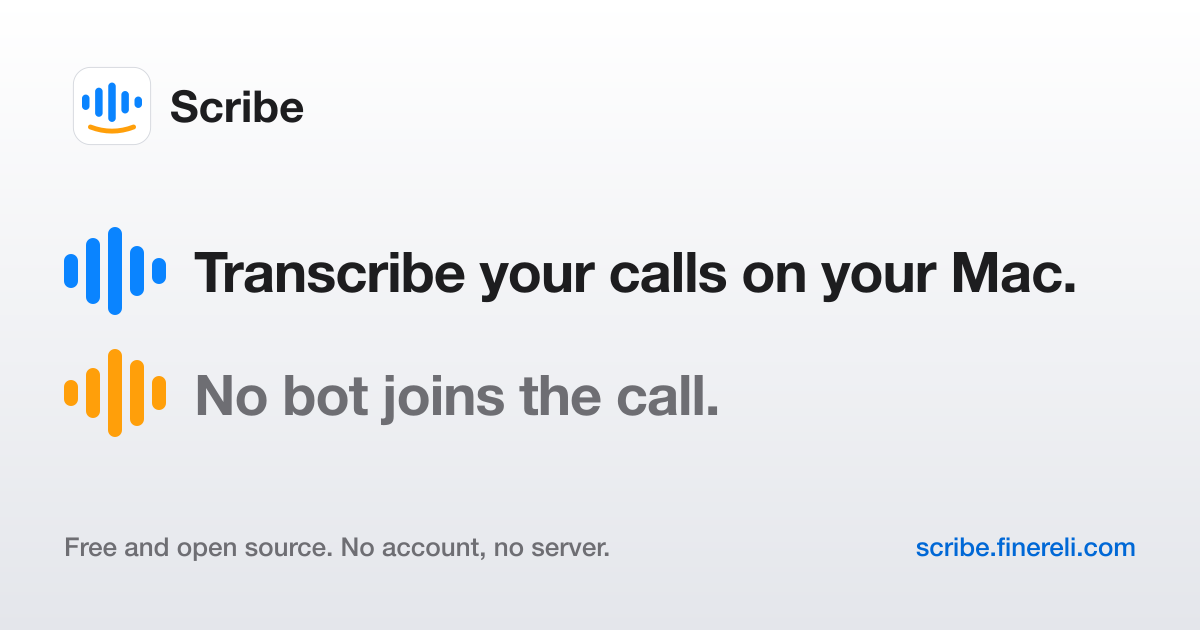
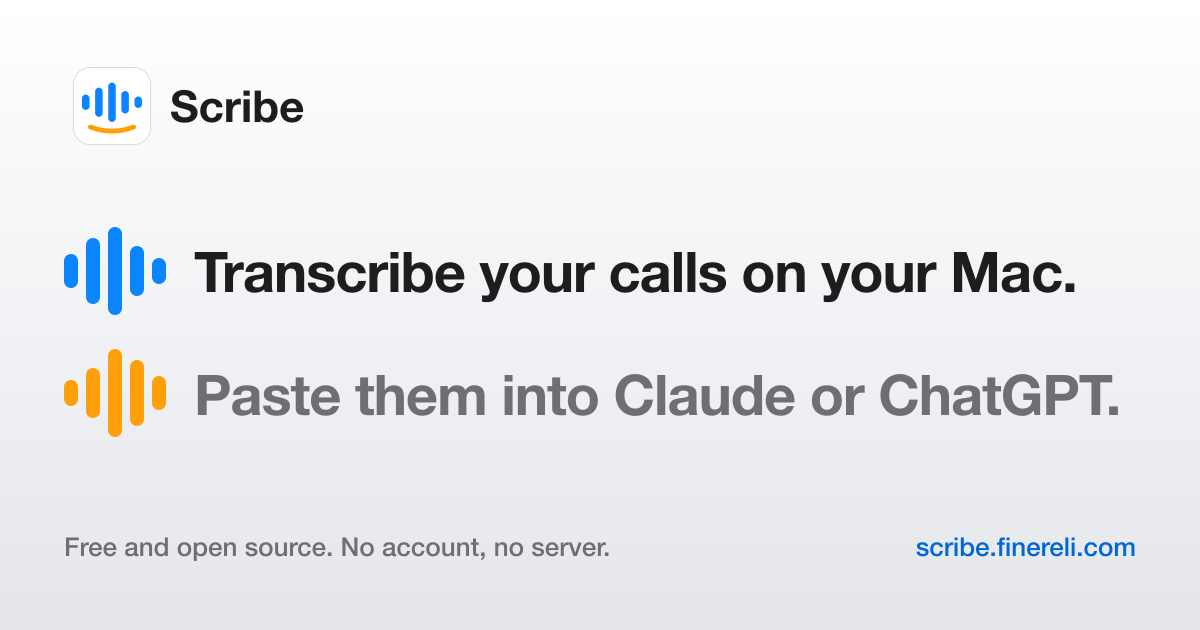
README and site: a tiny tool that hands your calls to Claude or ChatGPT
Lead with tiny and your AI, add the backup-for-important-calls benefit
and Teams' bot blocking, reframe the comparison as 'next to what you
already use', and show the send buttons in the animated mock.

Claude-Session: https://claude.ai/code/session_01HrUMyb8V6yPdeePndFHaDK

Changed region(s): [[0.1542, 0.573, 0.9558, 0.6937]]

diff --git a/site/public/index.html b/site/public/index.html
@@ -3,8 +3,8 @@
 <head>
 <meta charset="utf-8">
 <meta name="viewport" content="width=device-width, initial-scale=1">
-<title>Scribe - a free call transcriber for the Mac</title>
-<meta name="description" content="Scribe transcribes your Zoom, Google Meet, WhatsApp and FaceTime calls on your Mac, without a bot joining the call. Free and open source. No account, no server.">
+<title>Scribe - a tiny Mac tool to transcribe your calls for Claude or ChatGPT</title>
+<meta name="description" content="A tiny, free Mac app that transcribes your Zoom, Meet and WhatsApp calls and hands them to Claude or ChatGPT. No bot joins the call. 2 MB, no account, open source.">
 <link rel="canonical" href="https://scribe.finereli.com/">
 <meta name="color-scheme" content="light dark">
 <meta name="theme-color" content="#F2F3F5" media="(prefers-color-scheme: light)">
@@ -17,17 +17,17 @@
 <meta property="og:type" content="website">
 <meta property="og:site_name" content="Scribe">
 <meta property="og:url" content="https://scribe.finereli.com/">
-<meta property="og:title" content="Scribe - transcribe your calls on your Mac">
-<meta property="og:description" content="A free call transcriber for the Mac. Works with Zoom, Google Meet, WhatsApp, FaceTime, or anything else that talks through your speakers, and no bot joins the call.">
+<meta property="og:title" content="Scribe - a tiny Mac tool to transcribe your calls for Claude or ChatGPT">
+<meta property="og:description" content="Transcribe your Zoom, Meet and WhatsApp calls on your Mac and paste them into Claude or ChatGPT. No bot joins the call. Free, 2 MB, open source.">
 <meta property="og:image" content="https://scribe.finereli.com/og.png">
 <meta property="og:image:width" content="1200">
 <meta property="og:image:height" content="630">
-<meta property="og:image:alt" content="Scribe: transcribe your calls on your Mac. No bot joins the call.">
+<meta property="og:image:alt" content="Scribe: transcribe your calls on your Mac. Paste them into Claude or ChatGPT.">
 <meta name="twitter:card" content="summary_large_image">
-<meta name="twitter:title" content="Scribe - transcribe your calls on your Mac">
-<meta name="twitter:description" content="A free call transcriber for the Mac. Works with Zoom, Google Meet, WhatsApp, FaceTime, or anything else that talks through your speakers, and no bot joins the call.">
+<meta name="twitter:title" content="Scribe - a tiny Mac tool to transcribe your calls for Claude or ChatGPT">
+<meta name="twitter:description" content="Transcribe your Zoom, Meet and WhatsApp calls on your Mac and paste them into Claude or ChatGPT. No bot joins the call. Free, 2 MB, open source.">
 <meta name="twitter:image" content="https://scribe.finereli.com/og.png">
-<meta name="twitter:image:alt" content="Scribe: transcribe your calls on your Mac. No bot joins the call.">
+<meta name="twitter:image:alt" content="Scribe: transcribe your calls on your Mac. Paste them into Claude or ChatGPT.">
 
 <link rel="stylesheet" href="/styles.css">
 </head>
@@ -52,9 +52,9 @@
   <div>
     <h1 class="headline">
       <span class="voice me"><span class="bars" aria-hidden="true"><i></i><i></i><i></i><i></i><i></i></span><span class="said">Transcribe your calls on your Mac.</span></span>
-      <span class="voice them"><span class="bars" aria-hidden="true"><i></i><i></i><i></i><i></i><i></i></span><span class="said">No bot joins the call.</span></span>
+      <span class="voice them"><span class="bars" aria-hidden="true"><i></i><i></i><i></i><i></i><i></i></span><span class="said">Paste them into Claude or ChatGPT.</span></span>
     </h1>
-    <p class="lede">Scribe is a free call transcriber for the Mac. It works with Zoom, Google Meet, WhatsApp, FaceTime, or anything else that talks through your speakers, and it doesn't need a bot to join the call.</p>
+    <p class="lede">Scribe is a tiny Mac tool. It listens to your Zoom, Meet or WhatsApp call from your side, so no bot joins, writes down who said what, and hands the transcript to your AI with one click. 2 MB, no dependencies, no account.</p>
     <div class="get">
       <a class="download" href="https://github.com/finereli/scribe/releases/latest/download/Scribe.dmg">
         <svg viewBox="0 0 20 20" aria-hidden="true"><path d="M10 2.5v10m0 0-4-4m4 4 4-4M3.5 13.5v1.5a2 2 0 0 0 2 2h9a2 2 0 0 0 2-2v-1.5" fill="none" stroke="currentColor" stroke-width="1.8" stroke-linecap="round" stroke-linejoin="round"/></svg>
@@ -65,7 +65,7 @@
   </div>
 
   <figure class="window" aria-label="An example of a call being transcribed in Scribe">
-    <div class="titlebar" aria-hidden="true"><span></span><span></span><span></span></div>
+    <div class="titlebar" aria-hidden="true"><span></span><span></span><span></span><span class="send"><span class="ai" title="Copy the transcript and open Claude"><svg viewBox="0 0 100 100" aria-hidden="true"><path fill="#D97757" d="m19.6 66.5 19.7-11 .3-1-.3-.5h-1l-3.3-.2-11.2-.3L14 53l-9.5-.5-2.4-.5L0 49l.2-1.5 2-1.3 2.9.2 6.3.5 9.5.6 6.9.4L38 49.1h1.6l.2-.7-.5-.4-.4-.4L29 41l-10.6-7-5.6-4.1-3-2-1.5-2-.6-4.2 2.7-3 3.7.3.9.2 3.7 2.9 8 6.1L37 36l1.5 1.2.6-.4.1-.3-.7-1.1L33 25l-6-10.4-2.7-4.3-.7-2.6c-.3-1-.4-2-.4-3l3-4.2L28 0l4.2.6L33.8 2l2.6 6 4.1 9.3L47 29.9l2 3.8 1 3.4.3 1h.7v-.5l.5-7.2 1-8.7 1-11.2.3-3.2 1.6-3.8 3-2L61 2.6l2 2.9-.3 1.8-1.1 7.7L59 27.1l-1.5 8.2h.9l1-1.1 4.1-5.4 6.9-8.6 3-3.5L77 13l2.3-1.8h4.3l3.1 4.7-1.4 4.9-4.4 5.6-3.7 4.7-5.3 7.1-3.2 5.7.3.4h.7l12-2.6 6.4-1.1 7.6-1.3 3.5 1.6.4 1.6-1.4 3.4-8.2 2-9.6 2-14.3 3.3-.2.1.2.3 6.4.6 2.8.2h6.8l12.6 1 3.3 2 1.9 2.7-.3 2-5.1 2.6-6.8-1.6-16-3.8-5.4-1.3h-.8v.4l4.6 4.5 8.3 7.5L89 80.1l.5 2.4-1.3 2-1.4-.2-9.2-7-3.6-3-8-6.8h-.5v.7l1.8 2.7 9.8 14.7.5 4.5-.7 1.4-2.6 1-2.7-.6-5.8-8-6-9-4.7-8.2-.5.4-2.9 30.2-1.3 1.5-3 1.2-2.5-2-1.4-3 1.4-6.2 1.6-8 1.3-6.4 1.2-7.9.7-2.6v-.2H49L43 72l-9 12.3-7.2 7.6-1.7.7-3-1.5.3-2.8L24 86l10-12.8 6-7.9 4-4.6-.1-.5h-.3L17.2 77.4l-4.7.6-2-2 .2-3 1-1 8-5.5Z"/></svg><svg class="arr" viewBox="0 0 10 10" aria-hidden="true"><path d="M3 7 7 3M3.6 3H7v3.4" fill="none" stroke="currentColor" stroke-width="1.4" stroke-linecap="round" stroke-linejoin="round"/></svg></span><span class="ai" title="Copy the transcript and open ChatGPT"><svg viewBox="0 0 320 320" aria-hidden="true"><path fill="currentColor" d="m297.06 130.97c7.26-21.79 4.76-45.66-6.85-65.48-17.46-30.4-52.56-46.04-86.84-38.68-15.25-17.18-37.16-26.95-60.13-26.81-35.04-.08-66.13 22.48-76.91 55.82-22.51 4.61-41.94 18.7-53.31 38.67-17.59 30.32-13.58 68.54 9.92 94.54-7.26 21.79-4.76 45.66 6.85 65.48 17.46 30.4 52.56 46.04 86.84 38.68 15.24 17.18 37.16 26.95 60.13 26.8 35.06.09 66.16-22.49 76.94-55.86 22.51-4.61 41.94-18.7 53.31-38.67 17.57-30.32 13.55-68.51-9.94-94.51zm-120.28 168.11c-14.03.02-27.62-4.89-38.39-13.88.49-.26 1.34-.73 1.89-1.07l63.72-36.8c3.26-1.85 5.26-5.32 5.24-9.07v-89.83l26.93 15.55c.29.14.48.42.52.74v74.39c-.04 33.08-26.83 59.9-59.91 59.97zm-128.84-55.03c-7.03-12.14-9.56-26.37-7.15-40.18.47.28 1.3.79 1.89 1.13l63.72 36.8c3.23 1.89 7.23 1.89 10.47 0l77.79-44.92v31.1c.02.32-.13.63-.38.83l-64.41 37.19c-28.69 16.52-65.33 6.7-81.92-21.95zm-16.77-139.09c7-12.16 18.05-21.46 31.21-26.29 0 .55-.03 1.52-.03 2.2v73.61c-.02 3.74 1.98 7.21 5.23 9.06l77.79 44.91-26.93 15.55c-.27.18-.61.21-.91.08l-64.42-37.22c-28.63-16.58-38.45-53.21-21.95-81.89zm221.26 51.49-77.79-44.92 26.93-15.54c.27-.18.61-.21.91-.08l64.42 37.19c28.68 16.57 38.51 53.26 21.94 81.94-7.01 12.14-18.05 21.44-31.2 26.28v-75.81c.03-3.74-1.96-7.2-5.2-9.06zm26.8-40.34c-.47-.29-1.3-.79-1.89-1.13l-63.72-36.8c-3.23-1.89-7.23-1.89-10.47 0l-77.79 44.92v-31.1c-.02-.32.13-.63.38-.83l64.41-37.16c28.69-16.55 65.37-6.7 81.91 22 6.99 12.12 9.52 26.31 7.15 40.1zm-168.51 55.43-26.94-15.55c-.29-.14-.48-.42-.52-.74v-74.39c.02-33.12 26.89-59.96 60.01-59.94 14.01 0 27.57 4.92 38.34 13.88-.49.26-1.33.73-1.89 1.07l-63.72 36.8c-3.26 1.85-5.26 5.31-5.24 9.06l-.04 89.79zm14.63-31.54 34.65-20.01 34.65 20v40.01l-34.65 20-34.65-20z"/></svg><svg class="arr" viewBox="0 0 10 10" aria-hidden="true"><path d="M3 7 7 3M3.6 3H7v3.4" fill="none" stroke="currentColor" stroke-width="1.4" stroke-linecap="round" stroke-linejoin="round"/></svg></span></span></div>
     <div class="callhead">
       <div>
         <strong>Call with Dana</strong>
@@ -121,25 +121,33 @@
     <h2 id="different">What's different</h2>
     <dl class="points">
       <div class="point">
+        <dt>It's tiny.</dt>
+        <dd>Scribe isn't another place your meetings live. There's no account, no workspace and no AI of its own to learn. It's a 2 MB app with no dependencies that uses the speech recognizer already built into macOS, so there's no model to download. It runs on Apple Silicon and Intel Macs alike. Pick it up when a call starts, put it down when it ends.</dd>
+      </div>
+      <div class="point">
+        <dt>Your AI does the thinking.</dt>
+        <dd>Click the Claude or ChatGPT button and the transcript is copied with a line of context and the app opens. Paste, then ask what you actually want to know, in your own words. No fighting someone else's idea of a summary.</dd>
+      </div>
+      <div class="point">
+        <dt>A backup for the calls that matter.</dt>
+        <dd>Keep using Fathom or Granola if you like them. Scribe sits next to them for the calls where the bot is stuck in the waiting room, the meeting is on someone else's account, or the call is too important to trust to one tool.</dd>
+      </div>
+      <div class="point">
         <dt>There's no bot.</dt>
-        <dd>Nobody gets a "Scribe Notetaker wants to join" message. It doesn't matter whose meeting it is or which app it's in. Scribe listens on your Mac, the same way you do.</dd>
+        <dd>Nobody gets a "Notetaker wants to join" message. It doesn't matter whose meeting it is or which app it's in. Scribe listens on your Mac, the same way you do.</dd>
       </div>
       <div class="point">
         <dt>Your audio stays on your Mac.</dt>
-        <dd>The recording and the transcript are files on your disk. There's no account and no server.
+        <dd>Both sides are saved as audio files on your disk, next to the transcript. There's no account and no server.
           <small>One caveat: English is transcribed entirely on your Mac. For other languages, macOS sends the audio to Apple's speech service, the same one dictation uses.</small></dd>
-      </div>
-      <div class="point">
-        <dt>It's light.</dt>
-        <dd>Scribe uses the speech recognizer that's already in macOS rather than shipping its own model. The app is about 2 MB, and an hour of call is about 30 MB of audio. It runs on Apple Silicon and Intel Macs alike.</dd>
       </div>
       <div class="point">
         <dt>It knows who said what.</dt>
         <dd>Your microphone is <span class="chip me">Me</span> and whatever comes out of your Mac is <span class="chip them">Them</span>. For the usual one-on-one call, that's all the speaker detection you need, and it doesn't have to guess.</dd>
       </div>
       <div class="point">
-        <dt>It's free.</dt>
-        <dd>No trial, no plans, no account. The code is on GitHub under the MIT license.</dd>
+        <dt>It's free and open source.</dt>
+        <dd>No trial, no plans. The code is on GitHub under the MIT license, small enough to read before you trust it with your audio, and easy to change if you want it to do something it doesn't.</dd>
       </div>
     </dl>
   </div>
@@ -156,14 +164,15 @@
         <li>Write the follow-up email.</li>
       </ul>
       <p>An AI reading the transcript doesn't need every word to be perfect. It needs the conversation, and it needs it without you having to ask anyone's permission.</p>
+      <p>And the bots are being shown the door. In August 2026 Microsoft gave Teams admins a policy to detect and block notetaker bots. A tool that never joins the meeting doesn't have that problem.</p>
     </div>
   </div>
 </section>
 
 <section class="section" id="compare" aria-labelledby="compare-h">
   <div class="wrap">
-    <h2 id="compare-h">Compared to what's out there</h2>
-    <p class="compare-intro">I pay for Fathom and MacWhisper, and both are good at what they do. I tried Granola too.</p>
+    <h2 id="compare-h">Next to what you already use</h2>
+    <p class="compare-intro">Scribe isn't trying to replace these. I pay for Fathom and MacWhisper, and both are good at what they do. I tried Granola too. Scribe is the small thing that works when they can't.</p>
     <table class="compare">
       <thead>
         <tr><td></td><th scope="col" class="scribe">Scribe</th><th scope="col">Fathom</th><th scope="col">Granola</th><th scope="col">MacWhisper</th></tr>
@@ -213,7 +222,7 @@
           <li><span>Pick the call's language.</span></li>
           <li><span>Press the red button (or <kbd>⌘R</kbd>) when the call starts. Check that the Me and Them meters move.</span></li>
           <li><span>Talk. The transcript appears as you go.</span></li>
-          <li><span>Press stop, then copy the transcript and paste it wherever you think.</span></li>
+          <li><span>Press stop, then click the Claude or ChatGPT button and paste.</span></li>
         </ol>
         <p class="note">Every call is kept in its own folder with both sides recorded separately, so you can re-transcribe them later with anything you like.</p>
       </div>

diff --git a/site/public/styles.css b/site/public/styles.css
@@ -263,15 +263,26 @@ kbd {
   padding: 13px 16px;
   border-bottom: 1px solid var(--line);
 }
-.titlebar span {
+.titlebar > span:not(.send) {
   width: 12px;
   height: 12px;
   border-radius: 50%;
   background: var(--segment-off);
 }
-.titlebar span:nth-child(1) { background: #FF5F57; }
-.titlebar span:nth-child(2) { background: #FEBC2E; }
-.titlebar span:nth-child(3) { background: #28C840; }
+.titlebar > span:nth-child(1) { background: #FF5F57; }
+.titlebar > span:nth-child(2) { background: #FEBC2E; }
+.titlebar > span:nth-child(3) { background: #28C840; }
+
+/* Send-to-AI buttons, as in the app's toolbar. */
+.titlebar .send { margin-left: auto; display: flex; gap: 6px; }
+.titlebar .ai {
+  display: inline-flex; align-items: center; gap: 3px;
+  padding: 4px 7px;
+  border-radius: 7px; background: var(--segment-off);
+  color: var(--ink);
+}
+.titlebar .ai svg { width: 16px; height: 16px; display: block; }
+.titlebar .ai svg.arr { width: 9px; height: 9px; color: var(--muted); }
 
 .callhead {
   display: flex;
@@ -364,6 +375,9 @@ kbd {
   .turn:nth-child(3) { animation-delay: 2.3s; }
   .turn:nth-child(4) { animation-delay: 3.6s; }
   .partial { animation: settle 0.6s ease-out 5.4s both; }
+  /* Once the call is written down, the hand-off lights up. */
+  .titlebar .ai { animation: handoff 1.2s ease-out 6.2s both; }
+  .titlebar .ai + .ai { animation-delay: 6.45s; }
 
   .meter::after { animation: level 0.9s steps(1) 7 alternate; }
   .meter.them::after { animation-delay: 0.15s; }
@@ -371,6 +385,11 @@ kbd {
 @keyframes turn-in {
   from { opacity: 0; transform: translateY(6px); }
   to { opacity: 1; transform: none; }
+}
+@keyframes handoff {
+  0% { box-shadow: 0 0 0 0 rgba(10, 132, 255, 0); }
+  35% { box-shadow: 0 0 0 4px rgba(10, 132, 255, 0.28); }
+  100% { box-shadow: 0 0 0 0 rgba(10, 132, 255, 0); }
 }
 @keyframes settle {
   from { color: var(--faint); }

diff --git a/README.md b/README.md
@@ -4,7 +4,7 @@
 
 **[Download Scribe for Mac](https://github.com/finereli/scribe/releases/latest/download/Scribe.dmg)** (free, 1 MB, macOS 14.2+) · [scribe.finereli.com](https://scribe.finereli.com)
 
-A free call transcriber for the Mac. It works with Zoom, Google Meet, WhatsApp, FaceTime, or anything else that talks through your speakers, and it doesn't need a bot to join the call.
+A tiny Mac tool to transcribe your calls and paste them into Claude or ChatGPT. It listens to your Zoom, Meet or WhatsApp call from your side, so no bot joins, writes down who said what, and hands the transcript to your AI with one click. 2 MB, no dependencies, no account, free.
 
 ## Why I made this
 
@@ -20,23 +20,29 @@ People who spend their days on calls and don't like taking notes: founders, sale
 
 ## What's different
 
-**There's no bot.** Nobody gets a "Scribe Notetaker wants to join" message. It doesn't matter whose meeting it is or which app it's in. Scribe listens on your Mac, the same way you do.
+**It's tiny.** Scribe isn't another place your meetings live. There's no account, no workspace and no AI of its own to learn. It's a 2 MB app with no dependencies that uses the speech recognizer already built into macOS, so there's no model to download. It runs on Apple Silicon and Intel Macs alike. Pick it up when a call starts, put it down when it ends.
 
-**Your audio stays on your Mac.** The recording and the transcript are files on your disk. There's no account and no server. (One caveat: English is transcribed entirely on your Mac. For other languages, macOS sends the audio to Apple's speech service, the same one dictation uses.)
+**Your AI does the thinking.** Click the Claude or ChatGPT button and the transcript is copied with a line of context and the app opens. Paste, then ask what you actually want to know, in your own words.
 
-**It's light.** Scribe uses the speech recognizer that's already in macOS rather than shipping its own model. The app is about 2 MB, an hour of call is about 30 MB of audio.
+**A backup for the calls that matter.** Keep using Fathom or Granola if you like them. Scribe sits next to them for the calls where the bot is stuck in the waiting room, the meeting is on someone else's account, or the call is too important to trust to one tool.
+
+**There's no bot.** Nobody gets a "Notetaker wants to join" message. It doesn't matter whose meeting it is or which app it's in. Scribe listens on your Mac, the same way you do.
+
+**Your audio stays on your Mac.** Both sides are saved as audio files on your disk, next to the transcript. There's no account and no server. (One caveat: English is transcribed entirely on your Mac. For other languages, macOS sends the audio to Apple's speech service, the same one dictation uses.)
 
 **It knows who said what.** Your microphone is "Me" and whatever comes out of your Mac is "Them". For the usual one-on-one call, that's all the speaker detection you need, and it doesn't have to guess.
 
-**It's free.**
+**It's free and open source.** MIT licensed, small enough to read before you trust it with your audio, and easy to change if you want it to do something it doesn't.
 
 ## Why now
 
 Until recently the built-in transcription wasn't good enough to be worth keeping. Now it is, at least for what most of us actually do with transcripts: paste them into Claude or ChatGPT and ask "what did they agree to?", "what objections came up?", "write the follow-up email". An AI reading the transcript doesn't need every word to be perfect. It needs the conversation, and it needs it without you having to ask anyone's permission.
 
-## Compared to what's out there
+And the bots are being shown the door. In August 2026 Microsoft gave Teams admins a policy to detect and block notetaker bots. A tool that never joins the meeting doesn't have that problem.
 
-I pay for Fathom and MacWhisper, and both are good at what they do. I tried Granola too.
+## Next to what you already use
+
+Scribe isn't trying to replace these. I pay for Fathom and MacWhisper, and both are good at what they do. I tried Granola too. Scribe is the small thing that works when they can't.
 
 | | Scribe | Fathom | Granola | MacWhisper |
 |---|---|---|---|---|
@@ -64,7 +70,7 @@ Requires macOS 14.2 (Sonoma) or later. Built for both Apple Silicon and Intel Ma
 1. Pick the call's language (English, Hebrew or Russian).
 2. Press the red button (or ⌘R) when the call starts. Check that the **Me** and **Them** meters move.
 3. Talk. The transcript appears as you go.
-4. Press stop, then copy the transcript and paste it wherever you think.
+4. Press stop, then click the Claude or ChatGPT button and paste.
 
 Every call is kept in its own folder (the folder icon opens it) with both sides recorded separately, so you can re-transcribe them later with anything you like.
 
